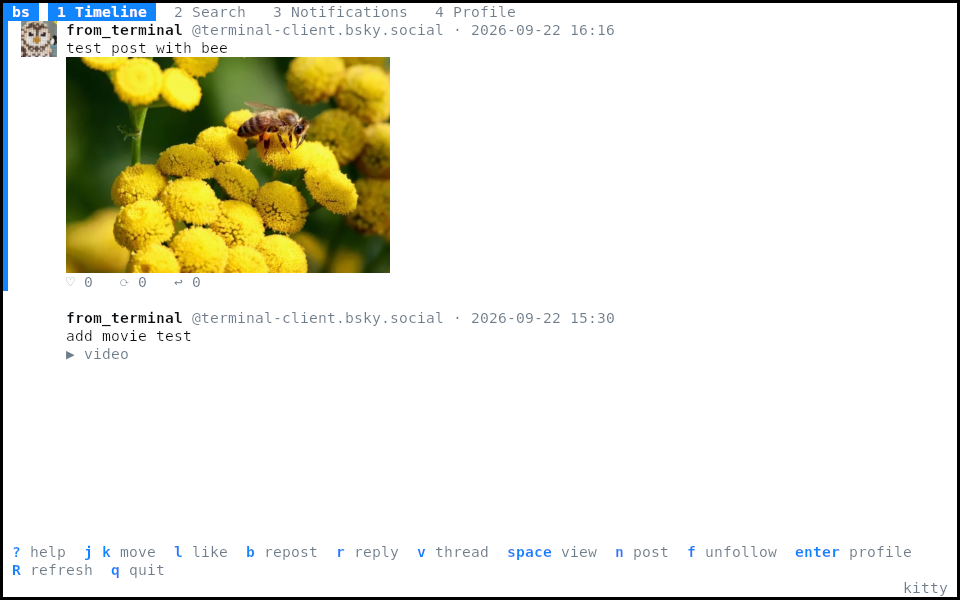
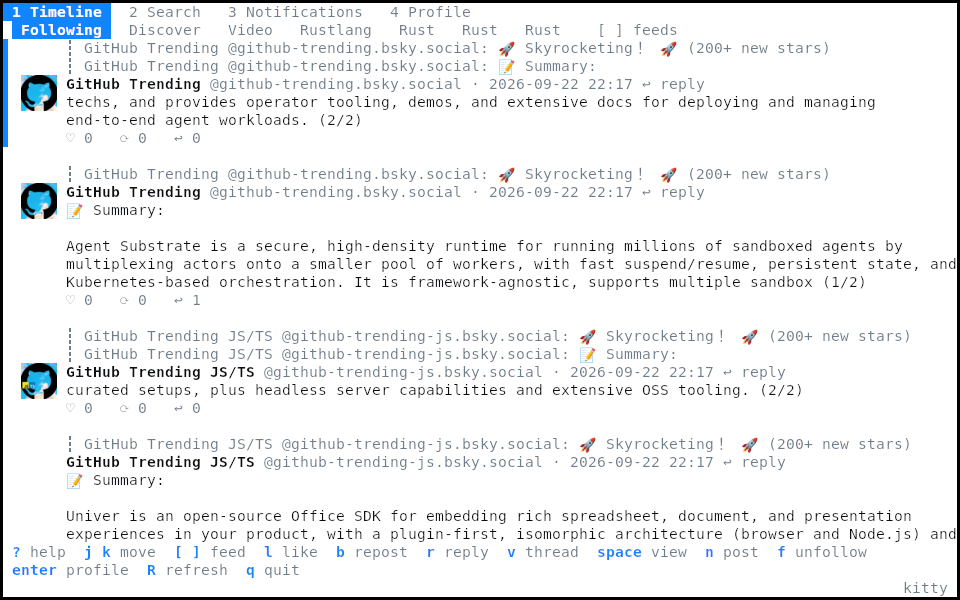
docs: record the README's demos again with the current bsky
The GIFs and theme pictures still showed the bs name before the tabs and
no feed bar. The demo now also switches to the next feed and back, and
every recording sets the theme it is made in and puts the account's
settings.json back afterwards, so a theme chosen in between does not end
up in the README.

diff --git a/README.md b/README.md
@@ -8,7 +8,7 @@
 
 bsky is an unofficial [Bluesky](https://bsky.app) client for the terminal that shows pictures and videos right in the terminal: avatars and photos inline next to their posts, full screen on `Space`, and videos played in place. It draws with the terminal's own image protocol (kitty graphics, sixel, or iTerm2 inline images), and needs nothing else installed.
 
-![bsky in kitty: the timeline scrolled, then a search for "github"](doc/img/demo.gif)
+![bsky in kitty: the timeline scrolled, the Discover feed, then a search for "github"](doc/img/demo.gif)
 
 ## Try it
 
